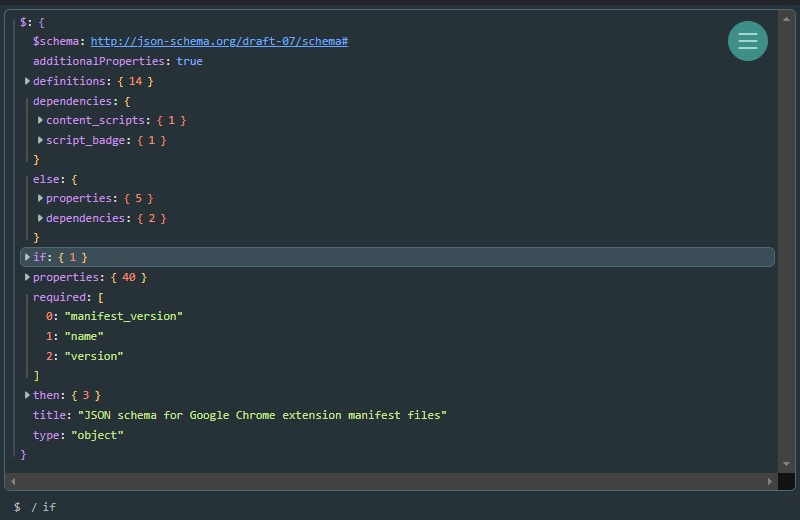
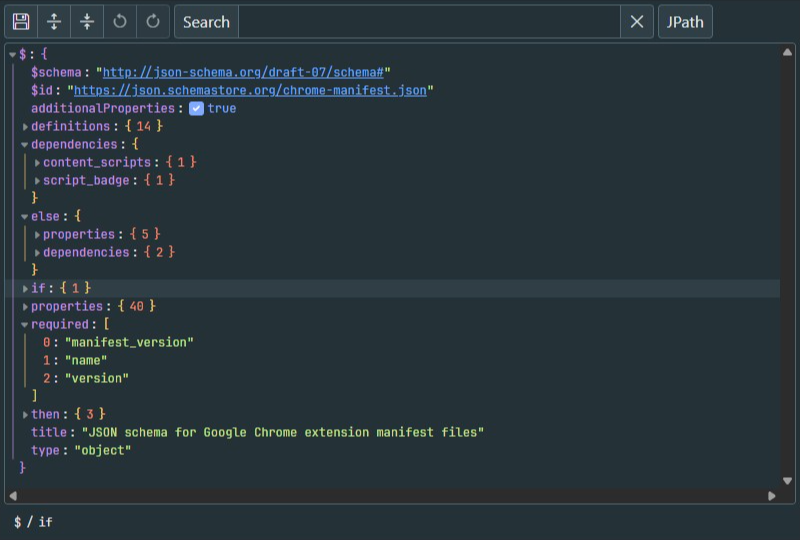
Updated theme screenshots

Changed region(s): [[0.0, 0.0, 1.0, 0.9846]]

diff --git a/res/dev.js b/res/dev.js
@@ -22,7 +22,14 @@ function dataUrlToBlob(url, x, y, w, h) {
 	});
 }
 
-const [dw, dh, url, delayVal, update, single, start, frame] = get("dw", "dh", "url", "delay", "btn-go", "btn-single", "btn-start", "view");
+const [res, dw, dh, url, delayVal, update, single, start, frame] = get("resolution", "dw", "dh", "url", "delay", "btn-go", "btn-single", "btn-start", "view");
+
+function updateRes() {
+	[dw.value, dh.value] = res.value.split("x");
+}
+
+res.addEventListener("input", updateRes);
+updateRes();
 
 update.addEventListener("click", () => {
 	const w = dw.valueAsNumber;
@@ -63,73 +70,46 @@ async function takeScreenshots(dir) {
 	}
 
 	async function captureScheme(darkMode, scheme) {
-		let fileName = scheme;
-		if (darkMode != null)
-			fileName += darkMode ? "-dk" : "-lt";
+		let filename = scheme;
+		filename = filename.replace('_light', '-lt');
+		filename = filename.replace('_dark', '-dk');
+		filename += '.png';
 
-		fileName += ".png";
+		const prefs = { darkMode };
 
-		await chrome.storage.local.set({ darkMode, scheme });
+		prefs[darkMode ? 'schemeDark' : 'schemeLight'] = scheme;
+
+		await chrome.storage.local.set(prefs);
 		await delay(600);
 
 		const blob = await capture();
-		await saveBlob(blob, fileName);
+		await saveBlob(blob, filename);
 	}
 
-	for (const [name, { mode }] of Object.entries(schemes)) {
-		if (mode === "auto") {
-			await captureScheme(true, name);
-			await captureScheme(false, name);
-		} else {
-			await captureScheme(null, name);
-		}
-	}
+	for (const scheme of lightSchemes)
+		await captureScheme(false, scheme);
+
+	for (const scheme of darkSchemes)
+		await captureScheme(true, scheme);
 }
 
-var schemes = {
-	"default": {
-		"name": "Visual Studio",
-		"indents": 3,
-		"mode": "auto"
-	},
-	"dracula": {
-		"name": "Dracula",
-		"indents": 6,
-		"mode": "auto"
-	},
-	"abyss": {
-		"name": "Abyss",
-		"indents": 3,
-		"mode": "dark"
-	},
-	"mat": {
-		"name": "Material",
-		"indents": 6,
-		"mode": "auto"
-	},
-	"monokai": {
-		"name": "Monokai",
-		"indents": 3,
-		"mode": "auto"
-	},
-	"github": {
-		"name": "GitHub",
-		"indents": 3,
-		"mode": "auto"
-	},
-	"cyberpunk": {
-		"name": "Cyberpunk",
-		"indents": 3,
-		"mode": "dark"
-	},
-	"terminal": {
-		"name": "Matrix",
-		"indents": 3,
-		"mode": "dark"
-	},
-	"solarized": {
-		"name": "Solarized",
-		"indents": 3,
-		"mode": "auto"
-	}
-}
+var lightSchemes = [
+	'default_light',
+	'dracula_light',
+	'mat_light',
+	'monokai_light',
+	'github_light',
+	'solarized_light',
+];
+
+var darkSchemes = [
+	'abyss',
+	'default_dark',
+	'dracula_dark',
+	'mat_dark',
+	'monokai_dark',
+	'github_dark',
+	'cyberpunk',
+	'terminal',
+	'solarized_dark',
+];

diff --git a/res/dev.html b/res/dev.html
@@ -9,8 +9,8 @@
 				position: absolute;
 				inset: 0;
 				display: grid;
-				grid-template-columns: 1fr 5rem 20rem 1fr;
-				grid-template-rows: repeat(5, auto) 1fr;
+				grid-template-columns: 1fr 7rem 20rem 1fr;
+				grid-template-rows: repeat(6, auto) 1fr;
 				margin: 5px auto;
 				row-gap: 5px;
 			}
@@ -43,6 +43,13 @@
 		<script type="module" src="theme-lite.js"></script>
 	</head>
 	<body>
+		<div class="input-group">
+			<span class="input-group-text">Resolution</span>
+			<select id="resolution">
+				<option>800x520</option>
+				<option>1280x800</option>
+			</select>
+		</div>
 		<div class="input-group">
 			<span class="input-group-text">Width</span>
 			<input id="dw" type="number" class="form-control" value="1280"/>
